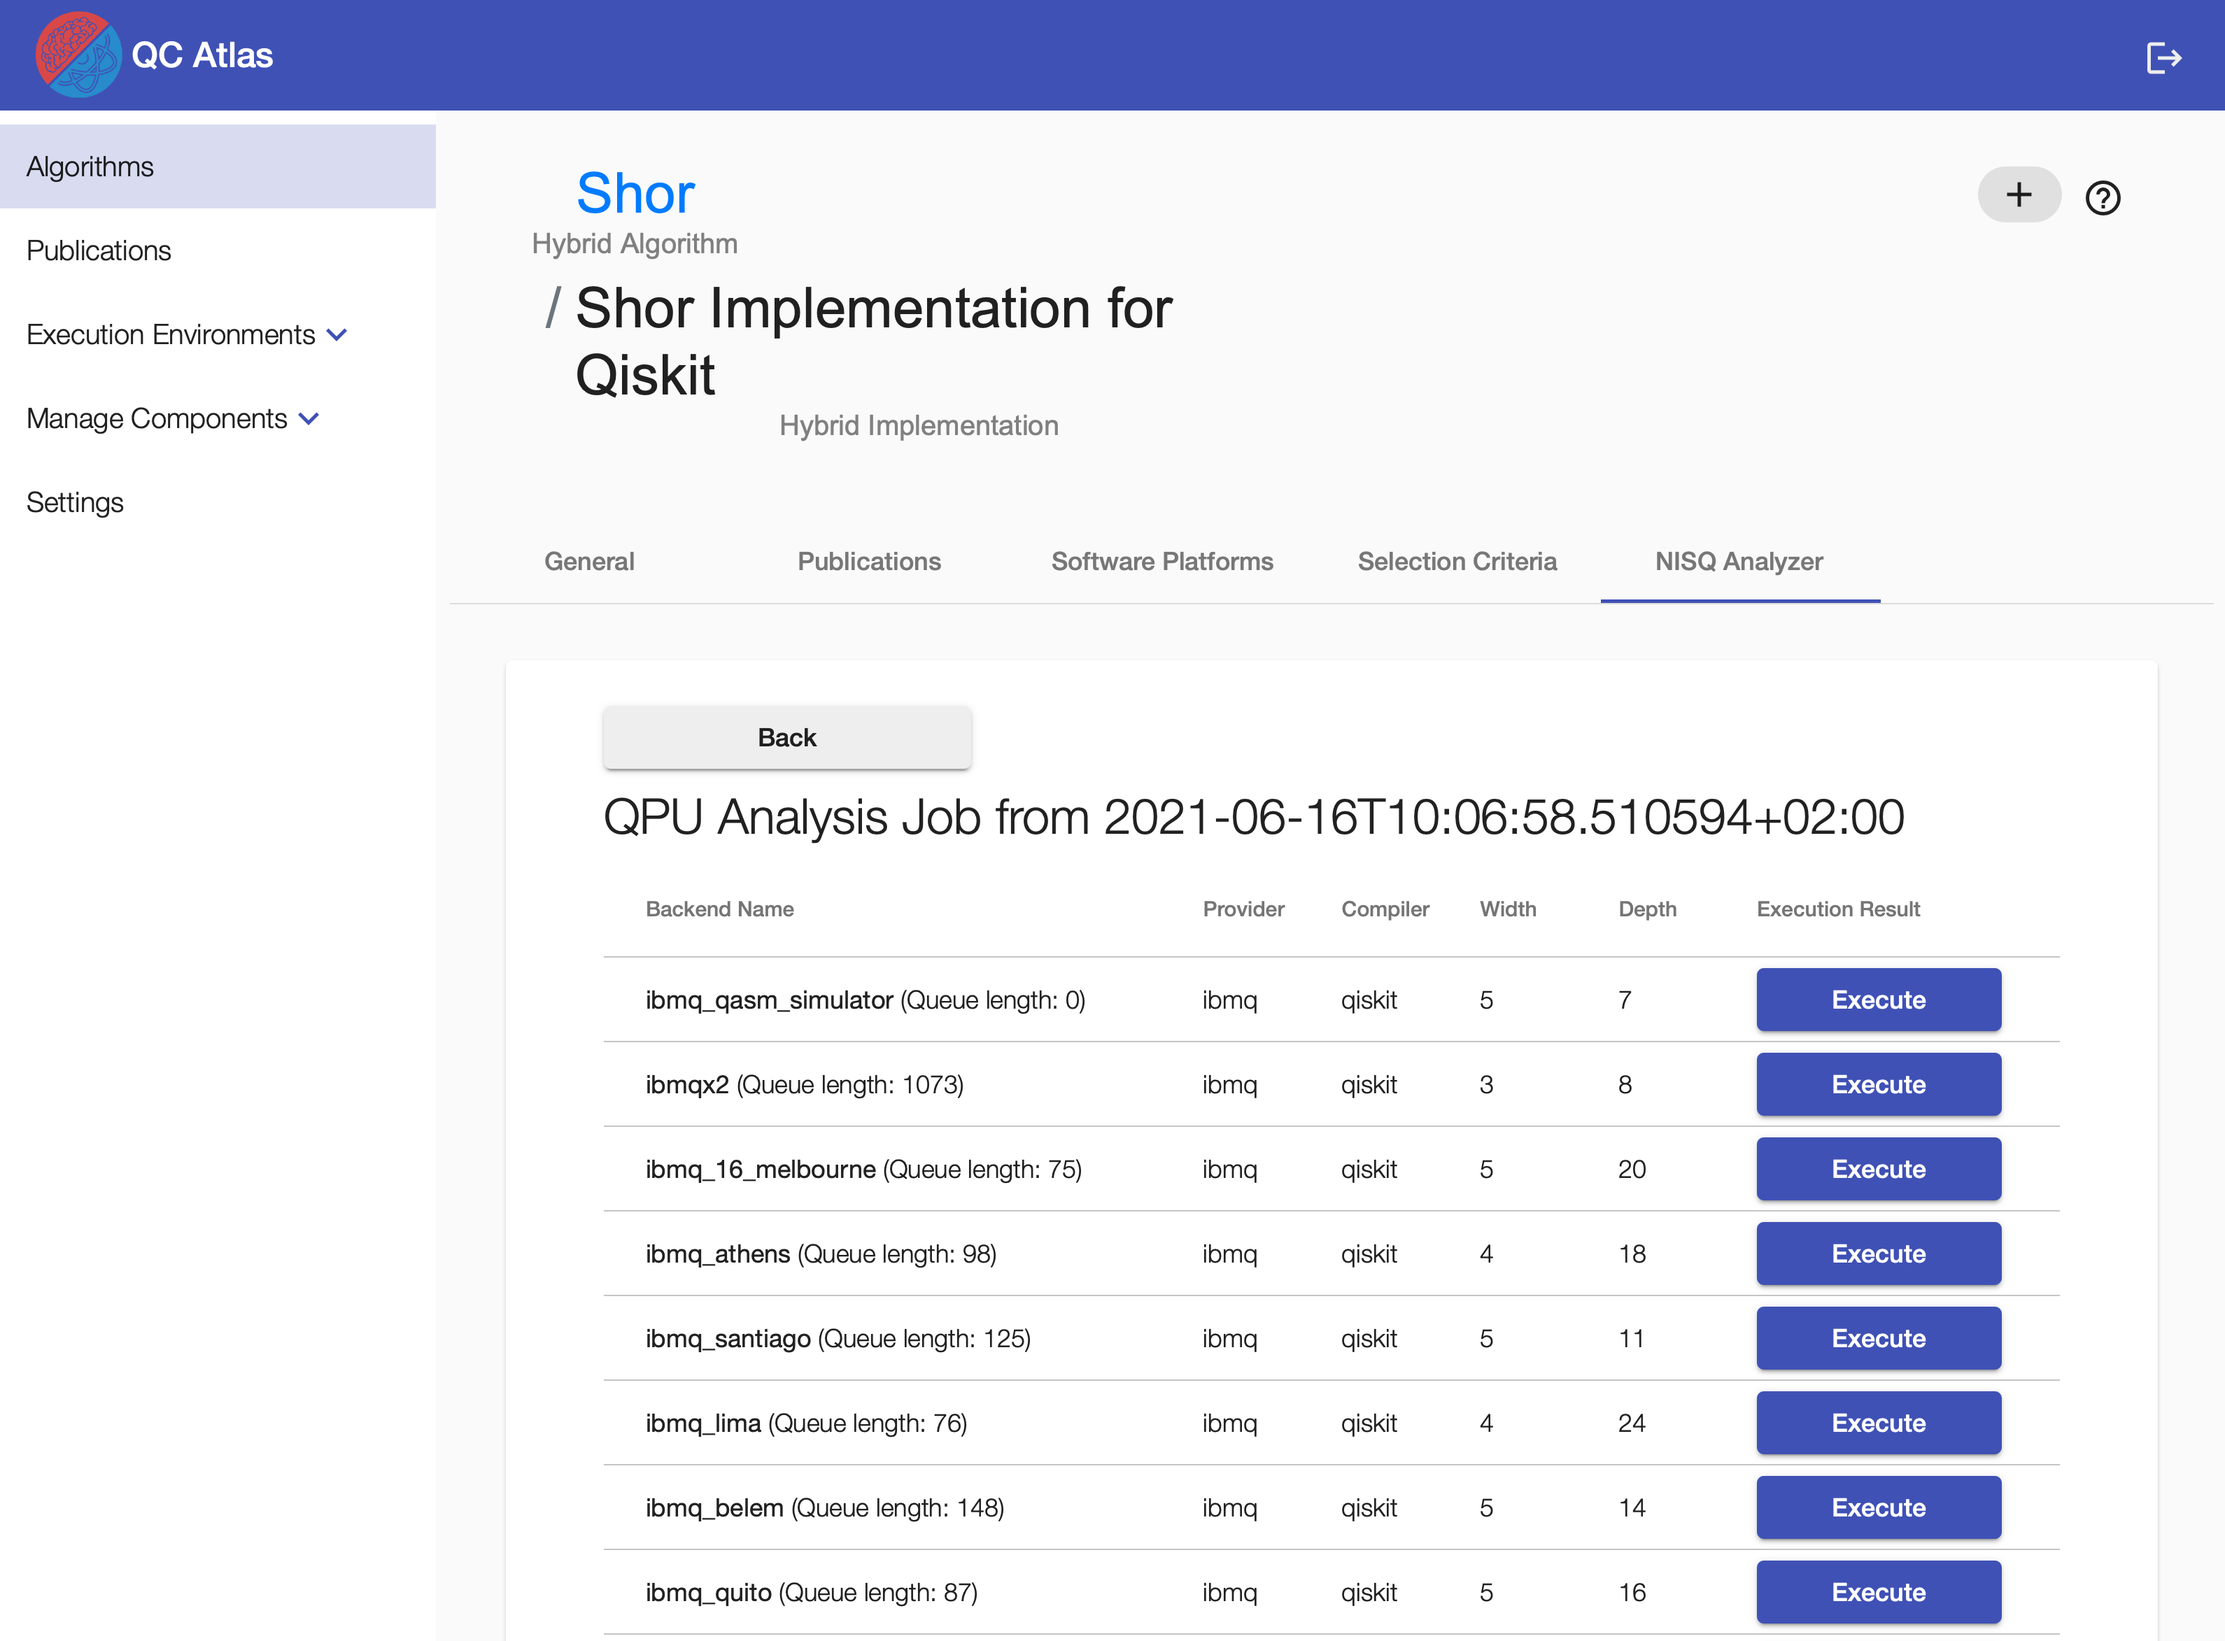
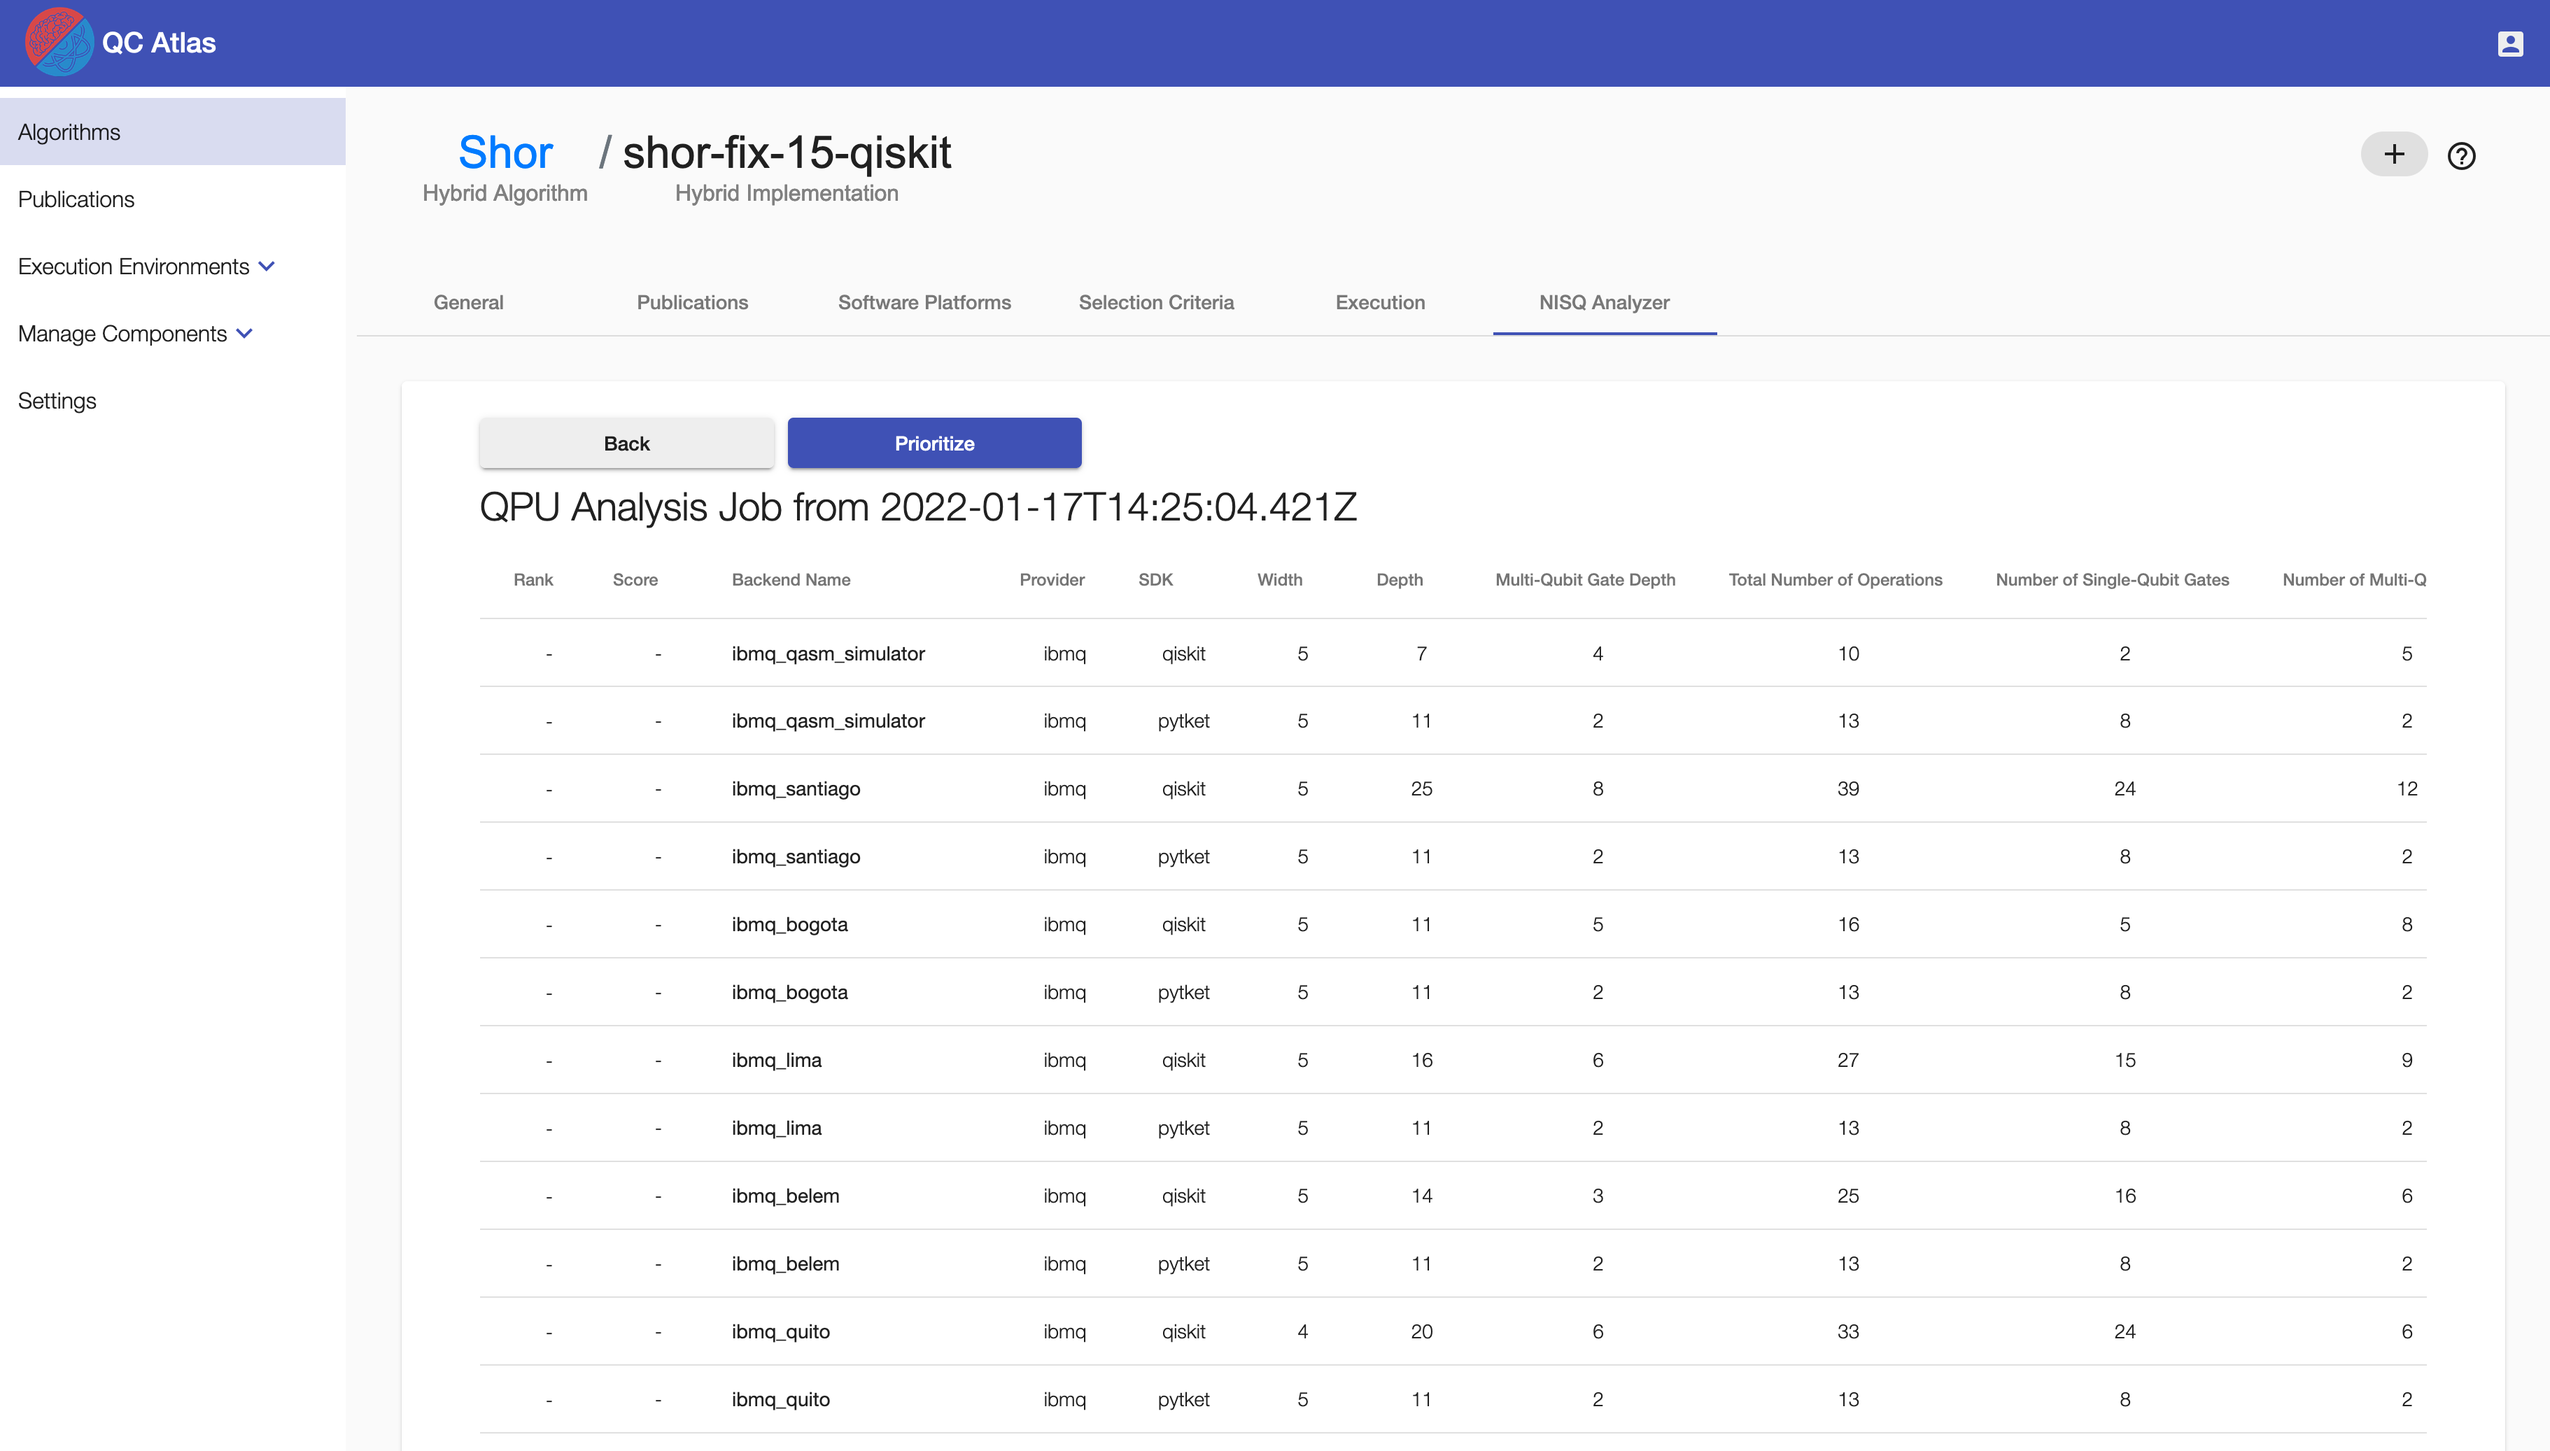
add prioritization documentation (#33)
* add prioritization documentation

* fix ...

* Update nisq-analyzer.md

diff --git a/docs/user-guide/nisq-analyzer.md b/docs/user-guide/nisq-analyzer.md
@@ -1,10 +1,10 @@
 
 # NISQ Analyzer User Guide
-The [NISQ Analyzer](https://github.com/UST-QuAntiL/nisq-analyzer) is a research prototype based on the work by [Salm et. al](https://link.springer.com/chapter/10.1007/978-3-030-64846-6_5). 
+The [NISQ Analyzer](https://github.com/UST-QuAntiL/nisq-analyzer) is a research prototype based on the work by [Salm et al.](https://link.springer.com/chapter/10.1007/978-3-030-64846-6_5). 
 It automatically analyzes implementations of quantum algorithms. 
 The results indicate if a quantum algorithm can be executed on a Quantum Processing Unit (QPU) or simulator, see [below](#running-the-nisq-analyzer-for-implementation-and-qpu-selection).  
-It also enables the analysis and selection of suitable QPUs based on a specific quantum algorithm implementation, see [below](#running-the-nisq-analyzer-for-implementation-and-qpu-selection).  
-Furthermore, it enables the automated comparison of available quantum compilers to support the selection of the most suitable compiled quantum circuit, see [below](#running-the-nisq-analyzer-for-compiler-comparison).  
+It also enables the analysis and selection of suitable QPUs based on a specific quantum algorithm implementation, see [below](#running-the-nisq-analyzer-for-qpu-selection).  
+Based on the work by [Salm et al.](https://link.springer.com/chapter/10.1007/978-3-030-87568-8_4), it enables the automated comparison of available quantum compilers to support the selection of the most suitable compiled quantum circuit, see [below](#running-the-nisq-analyzer-for-compiler-comparison).  
 An overview about the NISQ Analyzer and its used components can be viewed in the [Home Section](../index.md).
 
 ### SDKs, QPUs, and Cloud Services
@@ -111,17 +111,29 @@ You can also select if simulators should be included in the analysis.
 ### Analysis Result
 
 The analysis job is finished if the ``Show analysis`` button occurs on the right side.
-When clicking on it, suitable QPUs (and simulators) are listed.
+When clicking on it, suitable QPUs (and simulators) with properties about the compilation results, QPUs, and used compilers are listed.
 
 ![Analysis results UI](./images/nisq_analyzer/implementation-analysis-result.png)
 
-Press the button `Execute` to run the implementation on the selected QPU.
+Press the button `Execute` on the right outer column to run a compiled implementation on the selected QPU.
 
 ### Execution Result
 
 By clicking `Show result` the result of the executed implementation on the selected QPU is shown.
+If simulators were enabled for analysis, the histogram intersection of the QPU result and a simulator result is presented.
 
 ![Analysis results UI](./images/nisq_analyzer/implementation-qpu-execution-result.png)
+
+### Prioritization
+
+Based on available MCDA methods, the list of compiled implementations can be ranked by clicking the `Prioritize` button.
+The raised pop-up enables to select an available MCDA method that calculates the ranking and to adjust the importance of given metrics (e.g., width, depth, ...) used for prioritization.
+
+![Prioritization criteria_UI](./images/nisq_analyzer/implementation-analysis-mcda-criteria.png)
+
+After the prioritization process completes, the table is sorted by the resulting rank.
+
+![Prioritization ranked list](./images/nisq_analyzer/implementation-analysis-prioritized-list.png)
 
 ## Running the NISQ Analyzer for Compiler Comparison
 
